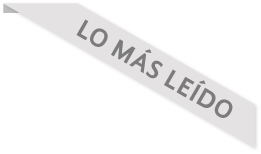
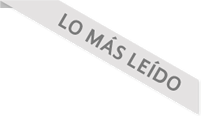
se agrega ribon a blog
se agrega el ribon al blog se modifican ctegory-blog, masleido y
style.css

diff --git a/style.css b/style.css
@@ -287,6 +287,13 @@ Use it to make something cool, have fun, and share what you've learned with othe
     max-width: 100%;
 }
 
+#popular #ribonLoMasLeido {
+	display: inline-block;
+    position: absolute;
+    right: -0.5%;
+    top: -1%;
+}
+
 /** Fin de los estilos del header **/
 /* FONT FACE */
 .post-home{

diff --git a/category-blog.php b/category-blog.php
@@ -10,7 +10,7 @@
 		<?php  $idCategoria = get_cat_ID(single_cat_title( '', false )); ?>
 	
 		<div id="popular" class="col-sm-12 col-md-12 col-lg-12 img-responsive">
-			<span class="responsive"><img src="<?php bloginfo('template_url') ?>/images/masleido.png" border="0"></span>
+			<span id="ribonLoMasLeido" class="responsive"><img src="<?php bloginfo('template_url') ?>/images/masleido.png" border="0"></span>
 			<?php wpp_get_mostpopular("range=all&limit=1&post-type=post&cat=".$idCategoria."&thumbnail_width=1080&thumbnail_height=230"); ?>
 			
 			<!-- botones redes sociales -->
